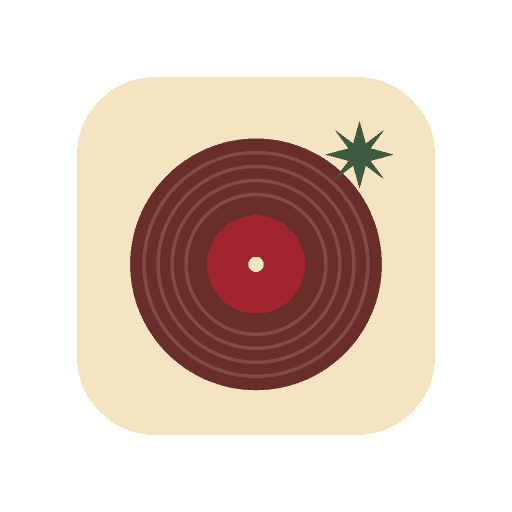
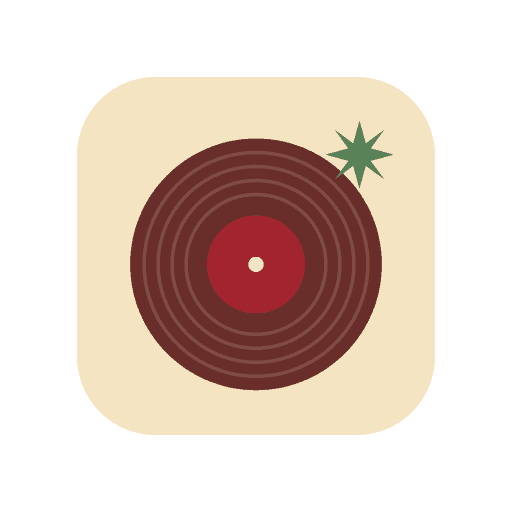
style: sage green #588157 as the complement
Labels, selection, level dots and the icon's starburst use #588157.
Buttons with text on green use #578056, 1% darker and indistinguishable,
so white text on them reaches 4.5:1. The dark theme gets a lighter sage.

Claude-Session: https://claude.ai/code/session_01XSi9fUsrvHTVty7qYN73Sh

Changed region(s): [[0.625, 0.25, 0.75, 0.375]]

diff --git a/src/styles/tokens.css b/src/styles/tokens.css
@@ -1,6 +1,6 @@
 /*
  * Mid-century hi-fi: warm paper grounds, chocolate rules, a brown-red primary,
- * hunter green as the complement, light bronze only for shadows and fills.
+ * sage green as the complement, light bronze only for shadows and fills.
  * Layout: a dashboard around the tab. "Now playing" on top, the tab card as the hero with its
  * transport, the console (tempo, tracks) beside it, sections and favourites below; the library is a drawer.
  * Themes: light (pearl) and an after-hours dark (chocolate). The viewer picks Claro, Oscuro or Sistema;
@@ -12,7 +12,7 @@
   --bronze: #e6af91;
   --chocolate: #6a2e2a;
   --brown-red: #a2242f;
-  --hunter: #3a5a40;
+  --hunter: #588157;
 
   /* roles */
   --ground: var(--pearl);
@@ -24,8 +24,9 @@
   --rule: var(--chocolate);
   --primary: var(--brown-red);
   --on-primary: var(--pearl);
-  --complement: var(--hunter);
-  --on-complement: var(--pearl);
+  /* 1% darker than --hunter so white text on it stays readable (4.5:1); the eye cannot tell them apart. */
+  --complement: #578056;
+  --on-complement: #ffffff;
   --shadow-color: var(--bronze);
   --hover: color-mix(in srgb, var(--bronze) 35%, transparent);
   --selected: color-mix(in srgb, var(--brown-red) 12%, var(--surface));
@@ -61,7 +62,7 @@
     --rule: color-mix(in srgb, var(--pearl) 55%, transparent);
     --primary: #e66f75;
     --on-primary: #2a1513;
-    --complement: #9cc3a0;
+    --complement: #8fb38d;
     --on-complement: #2a1513;
     --shadow-color: #0d0505;
     --hover: color-mix(in srgb, var(--bronze) 16%, transparent);
@@ -79,7 +80,7 @@
   --rule: color-mix(in srgb, var(--pearl) 55%, transparent);
   --primary: #e66f75;
   --on-primary: #2a1513;
-  --complement: #9cc3a0;
+  --complement: #8fb38d;
   --on-complement: #2a1513;
   --shadow-color: #0d0505;
   --hover: color-mix(in srgb, var(--bronze) 16%, transparent);
